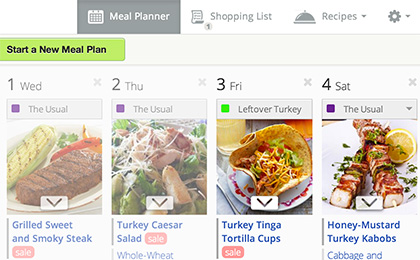
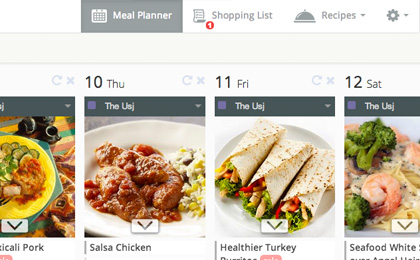
DinnerTime case study
Replaced lightbox photos with link to case study.
Added updated screenshots.

diff --git a/dinnertime.html b/dinnertime.html
@@ -1,0 +1,62 @@
+---
+layout: default
+title: Dinnertime Case Study | SmartLogic
+metadescription: Our agile software development process involves the client from initial scoping meetings to project completion. 
+---
+<article class="case-study dinnertime-case-study">
+  <h2>DinnerTime and SmartLogic: Close Collaboration Leads to Strong Relationship</h2>
+  <section>
+    <h3>The Problem</h3>
+    <figure class="right">
+      <img src="images/portfolio/dinnertime-1.jpg" alt="DinnerTime Meal Planner">
+      <figcaption>The Meal Planner view shows the user all meals that s/he has planned for the upcoming few weeks.</figcaption>
+    </figure>
+    <p><a href="https://www.dinnertime.com/">DinnerTime</a> enables families to plan, shop and prepare meals via a user-friendly web application. DinnerTime developed a clear technology architecture and product roadmap; however, they needed a team to build the front-end of a highly-interactive web application that would work across the desktop, tablets, and smartphones.</p>
+    <p>"We knew from the outset that our product/service would need to be massively scalable as well as effective and attractive. We needed a world-class team to augment our core team," said DinnerTime’s CEO, Laura Moore.</p>
+    <p>Co-Founder Charlie Moore added, "We knew we would be iterating our feature set at a rapid pace, and integration with the core meal recommendation engine was essential. So we wanted to be able to work closely and in-person with the developers, if possible. The question was whether we could find those talents at a sufficiently high level here in the Mid-Atlantic."</p>
+  </section>
+  <section>
+    <h3>Why SmartLogic?</h3>
+    <p>DinnerTime circulated an RFP to a number of firms in Baltimore, New York, and the Mid-Atlantic. DinnerTime found each firm through referrals. SmartLogic was one of the top five respondents, and then one of two finalists.</p>
+    <p>According to Doug Lay, DinnerTime’s VP of IT, DinnerTime was quickly convinced that SmartLogic’s developers were "among the brightest developers in the region and fully capable of the work required."</p>
+    <figure class="daily-menu">
+      <img src="images/portfolio/dinnertime-4.jpg" alt="DinnerTime Meal at a Glance">
+      <figcaption> The daily view of the Meal Planner allows the user to select and modify dishes for each meal.</figcaptiion>
+    </figure>
+  </section>
+  <section>
+    <h3>The Solution</h3>
+    <figure class="right shopping-list">
+      <img src="images/portfolio/dinnertime-5.png" alt="DinnerTime Shopping List">
+      <figcaption>DinnerTime auto-generates a Shopping List for the user's Meal Plan. The shopping list displays sale items at stores close to the user.</figcaptiion>
+    </figure>
+    <p>SmartLogic and DinnerTime have proved to be excellent partners. Here are a few of DinnerTime’s favorite aspects of working with SmartLogic:</p>
+    <ul>
+      <li>DinnerTime was impressed with the "rigorous disciplines SmartLogic utilizes to plan, coordinate and manage rapid iterations and feature builds," said Lay.  These processes include:
+        <ul>
+          <li>Tracking development via <a href="http://blog.smartlogicsolutions.com/2013/04/12/how-user-stories-help-software-developers-know-what-the-___-to-do/">user stories</a> in Pivotal Tracker.</li>
+          <li>Using <a href="http://blog.smartlogicsolutions.com/2012/11/28/using-pull-requests-to-improve-code-quality-process-and-skills/">pull requests</a> with two approvals to improve code quality.</li>
+          <li>Employing continuous integration to rapidly deploy new code.</li> 
+        </ul>
+      </li>
+      <li>These processes, said Lay, give him "terrific visibility on key priorities." When necessary, Lay can "easily and quickly adjust development priorities" as the company pivots, which is key to any growing company’s success.</li>
+      <li>Lay is "in near constant communication with the SmartLogic team," and DinnerTime’s client-facing management team is in touch frequently as well. Lay praises this "highly collaborative environment." SmartLogic emphasizes communication and collaboration via the following methods:
+        <ul>
+          <li>Holding <a href="http://blog.smartlogicsolutions.com/2012/11/28/using-pull-requests-to-improve-code-quality-process-and-skills/">epic, iteration, and daily meetings or phone calls</a> to establish big priorities and shift them as needed on an ongoing basis.</li> 
+          <li>Chatting using Campfire to streamline communication.</li>
+          <li>Connecting developers at SmartLogic and key stakeholders at DinnerTime directly, so nothing gets lost in translation through a non-technical project manager.</li> 
+        </ul>
+      </li>
+    </ul>
+  </section>
+  <section>
+    <h3>The Results</h3>
+    <p>DinnerTime released an alpha version four months after beginning work with SmartLogic, and a beta version two months later. Soon after that, DinnerTime acquired their first major client pilots, with highly successful results. Just one year after the beginning of the project, DinnerTime got their first sales, and a few months later, their first consumer subscriptions.</p>
+    <figure class="left">
+      <img src="images/portfolio/dinnertime-2.jpg" alt="DinnerTime Recipe Box">
+      <figcaption>The Recipe Box allows the user to store his or her favorite recipies and add them to future dinners.</figcaptiion>
+    </figure>
+    <p>At each stage, the product was improved based based on user feedback and behavior. SmartLogic has been closely involved with this process.</p>
+    <p>"We heartily recommend SmartLogic for other companies seeking to build world-class web applications," said Charlie Moore. "We have an extensive product roadmap and expect to continue to use SmartLogic as we build and release additional functionality throughout the coming year."</p>
+  </section>
+</article>

diff --git a/portfolio.html b/portfolio.html
@@ -12,28 +12,10 @@ metadescription: Look over our software development company portfolio for custom
     <aside><a href="brookes" class="case-study">View Case Study</a> <a href="http://brookespublishing.com/">Go to http://brookespublishing.com</a></aside>
   </article>
   <article class="dinnertime">
-    <a href="#portfolio/dinnertime/images"><img src="/images/portfolio/dinnertime.jpg" alt="DinnerTime Thumbnail" width="420" height="260"></a>
+    <a href="dinnertime"><img src="/images/portfolio/dinnertime.jpg" alt="DinnerTime Thumbnail" width="420" height="260"></a>
     <h2>DinnerTime</h2>
     <p><a href="http://dinnertime.com/">DinnerTime</a> is a web application providing personalized meal plans based upon the user’s time, budget, health conditions, tastes, and store sales. We’ve worked with DinnerTime from the beginning of their product development process. We help DinnerTime manage their product roadmap and develop their consumer-facing application, which is built in Backbone.js.</p>
-    <aside><a href="#portfolio/dinnertime/images">View 4 screenshots</a> <a href="http://dinnertime.com/">Go to http://dinnertime.com</a></aside>
-    <section id="portfolio/dinnertime/images" class="wide">
-      <figure>
-        <img src="/images/portfolio/dinnertime-1.png" alt="DinnerTime" title="DinnerTime" width="800" height="316">
-        <figcaption><strong>Image 1/4:</strong> The "Meal at a Glance" view shows useful information on all recipes in the meal, including prep time, calorie count, etc.</figcaption>
-      </figure>
-      <figure>
-        <img src="/images/portfolio/dinnertime-2.jpg" alt="DinnerTime" title="DinnerTime" width="800" height="375">
-        <figcaption><strong>Image 2/4:</strong> The "Meal Planner" view shows the user all meals that s/he has planned for the upcoming few weeks.</figcaption>
-      </figure>
-      <figure>
-        <img src="/images/portfolio/dinnertime-3.png" alt="DinnerTime" title="DinnerTime" width="800" height="312">
-        <figcaption><strong>Image 3/4:</strong> The "Meal Recipes" view displays the recipe for each recipe in a meal plan, along with prep time, cook time, etc.</figcaption>
-      </figure>
-      <figure>
-        <img src="/images/portfolio/dinnertime-4.png" alt="DinnerTime" title="DinnerTime" width="800" height="351">
-        <figcaption><strong>Image 4/4:</strong> DinnerTime auto-generates a "Shopping List" for the user's Meal Plan. The shopping list displays sale items at stores close to the user.</figcaption>
-      </figure>
-    </section>
+    <aside><a href="dinnertime" class="case-study">View Case Study</a> <a href="http://dinnertime.com/">Go to http://dinnertime.com</a></aside>
   </article>
   <article>
     <a href="woofound"><img src="images/portfolio/woofound.jpg" alt="Woofound Thumbnail" width="420" height="260"></a>

diff --git a/css/style.css b/css/style.css
@@ -618,18 +618,6 @@ article nav a {		display: block; }
     border-bottom: 0;
   } 
 
-  @media screen and (max-width: 670px) {
-    .case-study div.column {
-      width: 100%;
-    }
-
-    .case-study figure.float-right {
-      float: none;
-      width: 100%;
-      margin: 30px 0;
-    }
-  }
-
   .woofound-case-study section > h3 {
     clear: none;
   }
@@ -644,6 +632,60 @@ article nav a {		display: block; }
   .woofound-case-study section > img:last-of-type {
     float: right;
     margin: 0 0 20px 20px;
+  }
+
+  .dinnertime-case-study section:after {
+    content: "";
+    display: block;
+    height: 0;
+    clear: both;
+  }
+
+  .dinnertime-case-study section figure.left {
+    float: left;
+    margin: 0 20px 0 0;
+  }
+
+  .dinnertime-case-study section figure.right {
+    float: right;
+    margin: 0 0 0 20px;
+  }
+
+  .dinnertime-case-study section figure {
+    width: 600px;
+  }
+  .dinnertime-case-study section figure.daily-menu {
+    width: 100%;
+    margin: 20px 0 0 0;
+  }
+  .dinnertime-case-study section figure.shopping-list {
+    width: 400px;
+  }
+
+  .dinnertime-case-study section ul {
+    padding-left: 20px;
+  }
+
+  @media screen and (max-width: 670px) {
+    .case-study div.column {
+      width: 100%;
+    }
+
+    .case-study figure.float-right {
+      float: none;
+      width: 100%;
+      margin: 30px 0;
+    }
+
+    .dinnertime-case-study section figure, 
+    .dinnertime-case-study section figure.left,
+    .dinnertime-case-study section figure.right,
+    .dinnertime-case-study section figure.daily-menu,
+    .dinnertime-case-study section figure.shopping-list {
+      width: 100%;
+      float: none;
+      margin: 20px 0;
+    }
   }
 
 /*** CONTACT + THANK YOU PAGE + ADWORDS-LANDING-PAGE ***/
